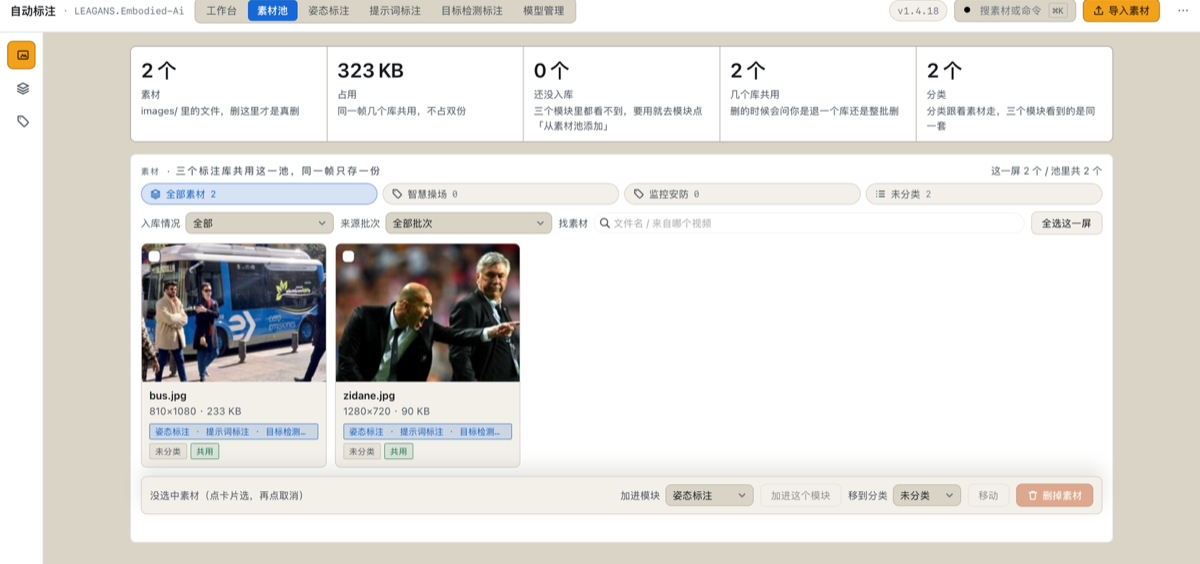
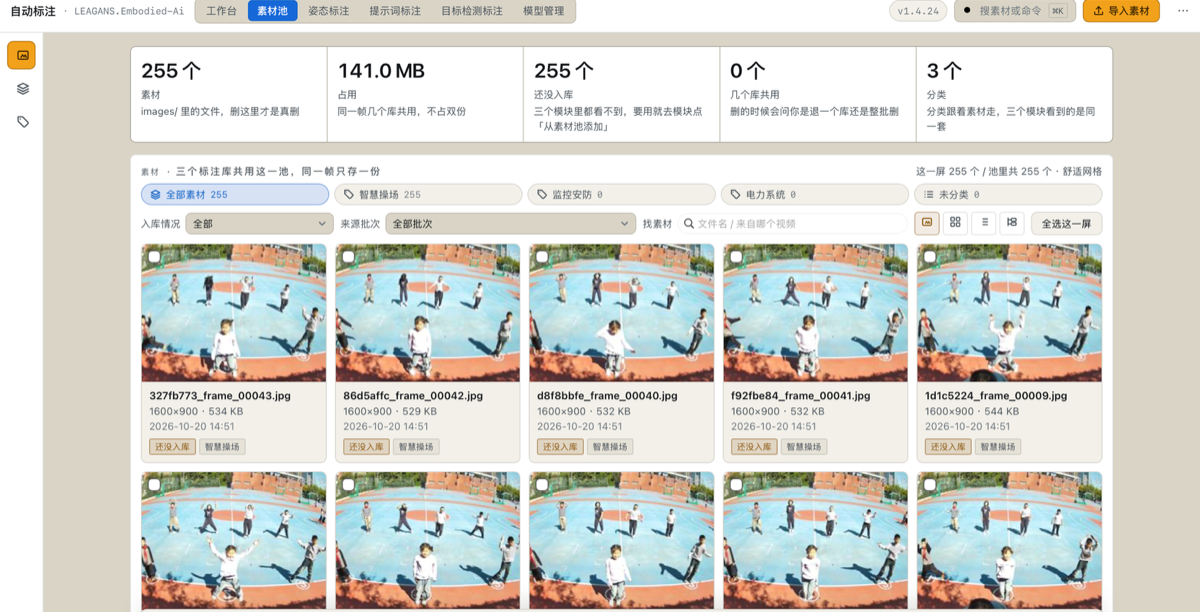
docs: 素材池按新版重截（带添加时间），新增「从素材池添加」筛选弹层截图
- pool.png 重拍：卡片下方显示尺寸 + 添加时间，顶部 255 个 / 141.0 MB
- 新增 pool-add.png：分类 / 批次 / 文件名三条筛选 + 已勾不丢 + 顺手归类
- README 素材池那节补一张弹层图并改文案，说明添加时间与三条筛选
- 均为本机真实数据（255 个素材、智慧操场分类）

diff --git a/README.md b/README.md
@@ -201,12 +201,21 @@ class_id cx cy w h  x1 y1 v1  x2 y2 v2 ... x17 y17 v17
 </p>
 
 <p align="center">
-  <img src="docs/screenshots/pool.png" width="404" alt="素材池页：素材归池、标注归库，按分类与批次管理，删错了能捞回">
+  <img src="docs/screenshots/pool.png" width="404" alt="素材池页：素材归池、标注归库，每张下面写着尺寸与添加时间，按分类与批次管理，删错了能捞回">
   <img src="docs/screenshots/models.png" width="404" alt="模型管理页：模型目录、任务筛选、搜索框、本机模型列表与各模块默认模型">
 </p>
 
 <p align="center">
-  <sub>左：素材池（<code>/pool</code>）—— 三个库共用的素材只落盘一份，分类与来处章跟着素材走<br>右：模型管理（<code>/models</code>）—— 中文说明、体积、参数量、自带类别表，下载与默认模型都在这一处</sub>
+  <sub>左：素材池（<code>/pool</code>）—— 三个库共用的素材只落盘一份，每张的尺寸与<b>添加时间</b>都写在卡片上<br>右：模型管理（<code>/models</code>）—— 中文说明、体积、参数量、自带类别表，下载与默认模型都在这一处</sub>
+</p>
+
+<p align="center">
+  <img src="docs/screenshots/pool-add.png" width="700" alt="从素材池添加：分类 / 批次 / 文件名三条筛选，已勾的换筛选不丢，右下角可顺手归类">
+</p>
+
+<p align="center">
+  <sub><b>从素材池添加</b> —— 四个库共用这一个挑选弹层：按<b>分类</b>、按<b>来处批次</b>、按<b>文件名</b>三条「且」筛选，
+  已勾的换筛选不丢，筛到空时提示里直接给「清空筛选」；每行底下还写着它属于哪个分类、哪一批</sub>
 </p>
 
 <p align="center">
